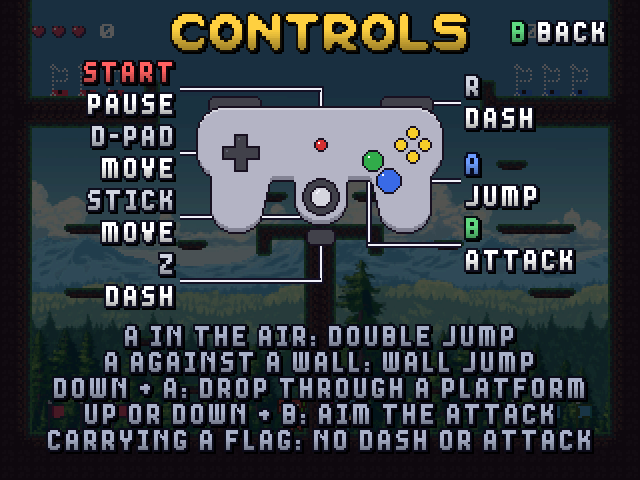
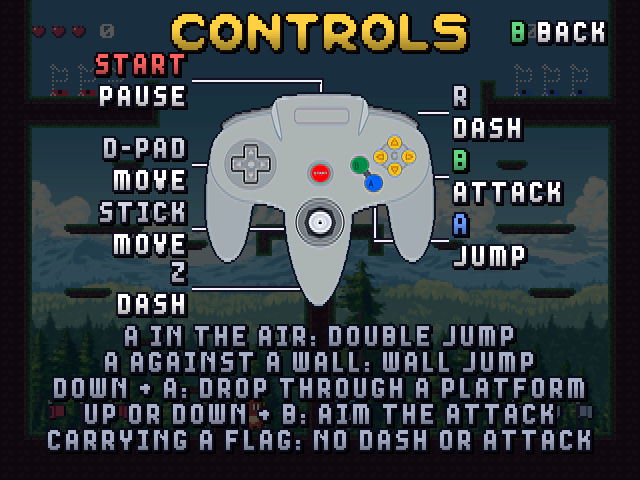
CONTROLS screen: VerzatileDev's controller art
tools/controls.py assembles the "UI TendoTendo" controller from the pack's
separate parts (placed as in its assembled thumbnail), scales it to 232x108
sim px (not stretched, like the backdrops), sharpens it, cuts alpha to 1 bit
and outlines it. The pack's files may not be redistributed, so
new-assets/controller-diagrams/ is ignored; without it, a drawn controller
with the parts at the same places. The callouts in scene.c follow the new
part positions; the build stops if the parts move without them.

Claude-Session: https://claude.ai/code/session_01LH4UJDShfuBhnsUo92N83q

diff --git a/tools/controls.py b/tools/controls.py
@@ -1,16 +1,130 @@
 """N64 controller picture for the pause menu's CONTROLS screen.
 
-pad() returns it in art px (build_sprites.py stretches it 2x wide like
-every sheet): the controller from the front, three grips, with the parts
-the game uses in their console colors. The renderer draws labels and
-leader lines to the parts at the PAD_* points below (art px from the
-picture's top-left; platform/common/scene.c draw_controls keeps a copy).
-"""
-from PIL import Image, ImageDraw
+pad() returns it at sim resolution, W x H (build_sprites.py does not stretch
+it): a sim px shows half as wide as tall, so the picture is twice as many px
+wide as a square-pixel one. The renderer draws labels and leader lines to
+the parts at PARTS (centers and radii in art px, i.e. half sim px across,
+from the picture's top-left; platform/common/scene.c callouts keeps a copy).
 
-W, H = 128, 84
-OUTLINE = (24, 22, 36, 255)
-BODY = (178, 180, 192, 255)
+With VerzatileDev's controller pack in new-assets/controller-diagrams (CC BY
+4.0, but its files may not be redistributed, so it is not in the
+repository), pad() assembles the "UI TendoTendo" controller from its separate
+parts (UI_TendoTendo_Seperate: body, shoulder buttons, D-pad, Start, A, B,
+C buttons, stick cap) where the pack's assembled UI_TendoTendoThumbnail1.png
+has them, scales it down, cuts alpha to 1 bit (RGBA16) and outlines the
+silhouette like the rest of the art. Without it, pad() draws a simpler
+controller with the parts at the same places.
+
+`python3 tools/controls.py out.png` writes the picture at 4:3 (2x across,
+4x down).
+"""
+import os
+
+from PIL import Image, ImageDraw, ImageFilter
+
+ROOT = os.path.dirname(os.path.dirname(os.path.abspath(__file__)))
+PACK = os.path.join(ROOT, "new-assets", "controller-diagrams", "UI_TendoTendo_Seperate")
+
+W, H = 232, 108                 # sim px
+OUTLINE = (20, 16, 36, 255)
+
+# name -> (x, y, r), art px.
+PARTS = {
+    "START": (58, 41, 5),
+    "DPAD": (23, 36, 10),
+    "STICK": (58, 65, 9),
+    "Z": (58, 88, 4),
+    "R": (104, 10, 3),
+    "A": (85, 46, 4),
+    "B": (78, 37, 4),
+}
+
+# ---- the pack's controller --------------------------------------------------
+
+SHARPEN = 80                    # unsharp mask after scaling down, percent
+# Source px of the body (g231, 2079x1995); every part is at the body's scale.
+BODY = "g231"
+SHOULDER_L, SHOULDER_R = ("g235", (144, 116)), ("g234", (1440, 108))
+# Part centers, from the thumbnail (scaled 2554/2079 there, body at 906,659).
+DPAD = ("g158", (409, 660))     # g158 nothing pressed; g98/g122/g132/g148 one arrow lit
+START = ("g232", (1043, 746))   # g233 darker
+B_BTN = ("g238", (1403, 669))   # g239 darker
+A_BTN = ("g237", (1529, 838))   # g236 darker
+C_BTNS = (1721, 584)            # no unlit set in the pack: g246's left half + g245's right
+STICK = ("g244", (1042, 1207))
+Z_BTN = (1042, 1640)            # trigger behind the middle grip
+R_BTN = (1880, 160)             # visible end of the R shoulder
+# PARTS in body source px: name -> (center, radius).
+CALLOUTS = {
+    "START": (START[1], 90),
+    "DPAD": (DPAD[1], 180),
+    "STICK": (STICK[1], 160),
+    "Z": (Z_BTN, 80),
+    "R": (R_BTN, 60),
+    "A": (A_BTN[1], 84),
+    "B": (B_BTN[1], 84),
+}
+
+
+def load(name):
+    return Image.open(os.path.join(PACK, f"UI_SuperNinNotTendoSVG_{name}.png")).convert("RGBA")
+
+
+def c_buttons():
+    lit_left, lit_right = load("g245"), load("g246")
+    half = lit_left.width // 2
+    out = lit_left.copy()
+    out.paste(lit_right.crop((0, 0, half, lit_right.height)), (0, 0))
+    return out
+
+
+def assemble():
+    """The whole controller in body source px."""
+    body = load(BODY)
+    im = Image.new("RGBA", body.size)
+    for name, at in (SHOULDER_L, SHOULDER_R):
+        im.alpha_composite(load(name), at)
+    im.alpha_composite(body)
+    for part, (cx, cy) in ((load(DPAD[0]), DPAD[1]), (load(START[0]), START[1]),
+                           (load(B_BTN[0]), B_BTN[1]), (load(A_BTN[0]), A_BTN[1]),
+                           (c_buttons(), C_BTNS), (load(STICK[0]), STICK[1])):
+        im.alpha_composite(part, (cx - part.width // 2, cy - part.height // 2))
+    return im
+
+
+def pack_pad():
+    """Scaled into W x H with a 1 px outline margin (2 across)."""
+    im = assemble()
+    box = im.getbbox()
+    sx, sy = (W - 4) / (box[2] - box[0]), (H - 2) / (box[3] - box[1])
+    parts = {name: (round((2 + (cx - box[0]) * sx) / 2), round(1 + (cy - box[1]) * sy),
+                    round(r * sy))
+             for name, ((cx, cy), r) in CALLOUTS.items()}
+    if parts != PARTS:
+        raise SystemExit(f"controls: parts moved, update PARTS and scene.c callouts: {parts}")
+    small = im.crop(box).resize((W - 4, H - 2), Image.LANCZOS)
+    alpha = small.getchannel("A")
+    small = small.convert("RGB").filter(ImageFilter.UnsharpMask(1, SHARPEN, 0))
+    small.putalpha(alpha)
+    out = Image.new("RGBA", (W, H))
+    out.paste(small, (2, 1))
+    px = out.load()
+    solid = [[px[x, y][3] >= 128 for x in range(W)] for y in range(H)]
+    for y in range(H):
+        for x in range(W):
+            if solid[y][x]:
+                px[x, y] = px[x, y][:3] + (255,)
+            elif any(0 <= x + dx < W and 0 <= y + dy < H and solid[y + dy][x + dx]
+                     for dx, dy in ((-2, 0), (-1, 0), (1, 0), (2, 0), (0, -1), (0, 1))):
+                px[x, y] = OUTLINE
+            else:
+                px[x, y] = (0, 0, 0, 0)
+    return out
+
+# ---- drawn controller (without the pack), art px, stretched 2x across -------
+
+AW = W // 2
+BODY_FILL = (178, 180, 192, 255)
 BODY_LIGHT = (208, 210, 220, 255)
 BODY_DARK = (132, 134, 150, 255)
 DARK = (64, 64, 78, 255)
@@ -19,17 +133,7 @@ RED = (214, 52, 52, 255)
 BLUE = (60, 104, 224, 255)
 GREEN = (52, 168, 76, 255)
 YELLOW = (240, 200, 40, 255)
-
-# Parts (centers), art px.
-DPAD = (24, 30)
-START = (64, 26)
-STICK = (64, 52)
-B_BTN = (90, 34)
-A_BTN = (98, 44)
-C_BTNS = (110, 26)      # center of the four C buttons
-L_BTN = (20, 5)
-R_BTN = (108, 5)
-Z_BTN = (64, 72)        # trigger behind the middle grip, drawn below the stick
+C_CENTER = (95, 32)
 
 
 def disc(d, c, r, fill, outline=OUTLINE):
@@ -39,31 +143,32 @@ def disc(d, c, r, fill, outline=OUTLINE):
 
 def body_mask():
     """Silhouette: a wide top with rounded ends and three grips below."""
-    im = Image.new("1", (W, H))
+    im = Image.new("1", (AW, H))
     d = ImageDraw.Draw(im)
-    d.rounded_rectangle((2, 7, W - 3, 44), radius=14, fill=1)
-    for cx in (22, 64, 106):
-        d.rounded_rectangle((cx - 13, 30, cx + 13, 70 if cx != 64 else 66), radius=12, fill=1)
-    d.polygon([(16, 40), (40, 40), (34, 64), (14, 64)], fill=1)          # left grip slants out
-    d.polygon([(88, 40), (112, 40), (114, 64), (94, 64)], fill=1)
+    d.rounded_rectangle((2, 8, AW - 3, 58), radius=18, fill=1)
+    d.rounded_rectangle((44, 40, 72, H - 3), radius=14, fill=1)          # middle grip
+    for x0, x1, top in ((4, 30, 50), (AW - 31, AW - 5, 50)):
+        d.rounded_rectangle((x0, top, x1, 92), radius=13, fill=1)
+    d.polygon([(10, 50), (40, 50), (30, 80), (6, 80)], fill=1)            # left grip slants out
+    d.polygon([(AW - 41, 50), (AW - 11, 50), (AW - 7, 80), (AW - 31, 80)], fill=1)
     return im
 
 
-def pad():
-    im = Image.new("RGBA", (W, H))
+def drawn_pad():
+    im = Image.new("RGBA", (AW, H))
     d = ImageDraw.Draw(im)
-    # Shoulder buttons behind the top edge.
-    d.rounded_rectangle((8, 2, 34, 10), radius=3, fill=DARK, outline=OUTLINE)
-    d.rounded_rectangle((94, 2, 120, 10), radius=3, fill=DARK, outline=OUTLINE)
-    # Body: outline ring, fill, a light top edge and a darker bottom.
+    rx, ry, _ = PARTS["R"]
+    d.rounded_rectangle((AW - 1 - rx - 12, ry - 6, AW - 1 - rx + 18, ry + 3), radius=3,
+                        fill=DARK, outline=OUTLINE)                       # L
+    d.rounded_rectangle((rx - 18, ry - 6, rx + 12, ry + 3), radius=3, fill=DARK, outline=OUTLINE)
     mask = body_mask()
     m = mask.load()
     px = im.load()
     for y in range(H):
-        for x in range(W):
+        for x in range(AW):
             if not m[x, y]:
                 continue
-            edge = any(not (0 <= x + dx < W and 0 <= y + dy < H and m[x + dx, y + dy])
+            edge = any(not (0 <= x + dx < AW and 0 <= y + dy < H and m[x + dx, y + dy])
                        for dx, dy in ((1, 0), (-1, 0), (0, 1), (0, -1)))
             if edge:
                 px[x, y] = OUTLINE
@@ -72,37 +177,37 @@ def pad():
             elif y + 3 < H and not m[x, y + 3]:
                 px[x, y] = BODY_DARK
             else:
-                px[x, y] = BODY
-    # Z trigger (really under the middle grip), seen through it.
-    d.rounded_rectangle((Z_BTN[0] - 7, Z_BTN[1] - 4, Z_BTN[0] + 7, Z_BTN[1] + 4), radius=3,
-                        fill=DARK, outline=OUTLINE)
-    # D-pad.
-    x, y = DPAD
-    d.rectangle((x - 3, y - 9, x + 3, y + 9), fill=DARK, outline=OUTLINE)
-    d.rectangle((x - 9, y - 3, x + 9, y + 3), fill=DARK, outline=OUTLINE)
-    d.rectangle((x - 2, y - 8, x + 2, y + 8), fill=DARK)
-    d.rectangle((x - 8, y - 2, x + 8, y + 2), fill=DARK)
-    d.point([(x - 1, y - 7), (x - 7, y - 1)], fill=DARK_LIGHT)
-    # Start.
-    disc(d, START, 3, RED)
-    # Analog stick: well, then the cap.
-    disc(d, STICK, 9, DARK)
-    disc(d, STICK, 5, BODY_LIGHT)
-    d.point([(STICK[0] - 2, STICK[1] - 2), (STICK[0] - 1, STICK[1] - 3)], fill=(240, 240, 248, 255))
-    # B, A, then the C buttons.
-    disc(d, B_BTN, 5, GREEN)
-    disc(d, A_BTN, 6, BLUE)
-    cx, cy = C_BTNS
-    for dx, dy in ((0, -6), (-6, 0), (6, 0), (0, 6)):
+                px[x, y] = BODY_FILL
+    zx, zy, _ = PARTS["Z"]          # Z trigger (really under the middle grip), seen through it
+    d.rounded_rectangle((zx - 7, zy - 4, zx + 7, zy + 4), radius=3, fill=DARK, outline=OUTLINE)
+    x, y, _ = PARTS["DPAD"]
+    d.rectangle((x - 3, y - 10, x + 3, y + 10), fill=DARK, outline=OUTLINE)
+    d.rectangle((x - 10, y - 3, x + 10, y + 3), fill=DARK, outline=OUTLINE)
+    d.rectangle((x - 2, y - 9, x + 2, y + 9), fill=DARK)
+    d.rectangle((x - 9, y - 2, x + 9, y + 2), fill=DARK)
+    d.point([(x - 1, y - 8), (x - 8, y - 1)], fill=DARK_LIGHT)
+    disc(d, PARTS["START"][:2], 3, RED)
+    sx, sy, _ = PARTS["STICK"]
+    disc(d, (sx, sy), 9, DARK)
+    disc(d, (sx, sy), 5, BODY_LIGHT)
+    d.point([(sx - 2, sy - 2), (sx - 1, sy - 3)], fill=(240, 240, 248, 255))
+    disc(d, PARTS["B"][:2], 4, GREEN)
+    disc(d, PARTS["A"][:2], 5, BLUE)
+    cx, cy = C_CENTER
+    for dx, dy in ((0, -7), (-7, 0), (7, 0), (0, 7)):
         disc(d, (cx + dx, cy + dy), 3, YELLOW)
-    # A little shine on the colored buttons.
-    for (bx, by), r in ((B_BTN, 5), (A_BTN, 6), (START, 3)):
+    for name, r in (("B", 4), ("A", 5), ("START", 3)):
+        bx, by, _ = PARTS[name]
         d.point([(bx - r // 2, by - r // 2)], fill=(255, 255, 255, 200))
-    return im
+    return im.resize((W, H), Image.NEAREST)
+
+
+def pad():
+    return pack_pad() if os.path.isdir(PACK) else drawn_pad()
 
 
 if __name__ == "__main__":
     import sys
     out = sys.argv[1] if len(sys.argv) > 1 else "pad.png"
-    p = pad()
-    p.resize((p.width * 4, p.height * 4), Image.NEAREST).save(out)
+    p = drawn_pad() if "--drawn" in sys.argv else pad()
+    p.resize((p.width * 2, p.height * 4), Image.NEAREST).save(out)

diff --git a/platform/common/scene.c b/platform/common/scene.c
@@ -583,8 +583,10 @@ static void draw_pause(const Game *g, const DrawApi *d)
 
 /* CONTROLS screen: the N64 controller (tools/controls.py) with leader lines
  * from its parts to two-line labels (part, action), and tips below. */
-#define PAD_X 192               /* picture's top-left, sim px (256x84) */
+#define PAD_X 204               /* picture's top-left, sim px */
 #define PAD_Y 46
+#define PAD_PIC_W 232           /* picture size, sim px (tools/controls.py W, H) */
+#define PAD_PIC_H 108
 #define LABEL_GAP 16            /* picture edge to labels */
 #define TINT_PART 0xd0d4e0
 #define TINT_A 0x6c9cff
@@ -598,13 +600,13 @@ typedef struct {
 } Callout;
 
 static const Callout callouts[] = {
-    {64, 26, 3, 0, 44, 0xff6060, "START", "PAUSE"},
-    {24, 30, 9, 0, 76, TINT_PART, "D-PAD", "MOVE"},
-    {64, 52, 9, 0, 108, TINT_PART, "STICK", "MOVE"},
-    {64, 72, 4, 0, 140, TINT_PART, "Z", "DASH"},
-    {108, 5, 4, 1, 51, TINT_PART, "R", "DASH"},
-    {98, 44, 6, 1, 90, TINT_A, "A", "JUMP"},
-    {88, 34, 5, 1, 122, TINT_B, "B", "ATTACK"},
+    {58, 41, 5, 0, 40, 0xff6060, "START", "PAUSE"},
+    {23, 36, 10, 0, 82, TINT_PART, "D-PAD", "MOVE"},
+    {58, 65, 9, 0, 114, TINT_PART, "STICK", "MOVE"},
+    {58, 88, 4, 0, 144, TINT_PART, "Z", "DASH"},
+    {104, 10, 3, 1, 56, TINT_PART, "R", "DASH"},
+    {78, 37, 4, 1, 88, TINT_B, "B", "ATTACK"},
+    {85, 46, 4, 1, 120, TINT_A, "A", "JUMP"},
 };
 
 /* A light line with a dark edge, horizontal or vertical, between two points. */
@@ -640,7 +642,7 @@ static void draw_controls(const Game *g, const DrawApi *d)
     for (unsigned i = 0; i < sizeof callouts / sizeof callouts[0]; i++) {
         const Callout *c = &callouts[i];
         int px = PAD_X + c->ax * 2, py = PAD_Y + c->ay, y = c->y;
-        int lx = c->right ? PAD_X + 256 + LABEL_GAP - 4 : PAD_X - LABEL_GAP + 4;
+        int lx = c->right ? PAD_X + PAD_PIC_W + LABEL_GAP - 4 : PAD_X - LABEL_GAP + 4;
         if (py == y) {          /* straight across, from the part's edge */
             leader(d, c->right ? px + c->r * 2 : px - c->r * 2, y, lx, y);
         } else {                /* down or up to the label's y, then across */
@@ -648,12 +650,12 @@ static void draw_controls(const Game *g, const DrawApi *d)
             leader(d, px, y, lx, y);
         }
     }
-    d->blit(d->ctx, SPR_CONTROLS, 0, 0, 256, 84, PAD_X, PAD_Y, 0);
+    d->blit(d->ctx, SPR_CONTROLS, 0, 0, PAD_PIC_W, PAD_PIC_H, PAD_X, PAD_Y, 0);
     /* Labels at the leader ends: the part above the line, the action below. */
     for (unsigned i = 0; i < sizeof callouts / sizeof callouts[0]; i++) {
         const Callout *c = &callouts[i];
         int wp = font_width(c->part, FONT_SMALL), wa = font_width(c->action, FONT_SMALL);
-        int x = c->right ? PAD_X + 256 + LABEL_GAP : PAD_X - LABEL_GAP;
+        int x = c->right ? PAD_X + PAD_PIC_W + LABEL_GAP : PAD_X - LABEL_GAP;
         font_text(g, d, c->right ? x : x - wp, c->y - th - 1, c->part, FONT_SMALL, c->tint, 0);
         font_text(g, d, c->right ? x : x - wa, c->y + 2, c->action, FONT_SMALL, TINT_WHITE, 0);
     }

diff --git a/tools/build_sprites.py b/tools/build_sprites.py
@@ -39,7 +39,7 @@ Layouts below are in art px (before the stretch):
   slash     attack slash (tools/effects.py): 3 side frames of 16x24, 3 up
             frames of 24x16
   controls  N64 controller picture for the CONTROLS screen (tools/controls.py),
-            128x84
+            already at sim resolution (232x108, not stretched)
   platform  Rocky Roads cloud platforms halved (nearest), for one-way moving
             platforms 2, 3 and 4 cells wide: one 34x10 slot each, the cloud
             centered, its top on the slot's top row
@@ -218,7 +218,6 @@ def sheets():
     yield "hud", hearts.resize((hearts.width // 2, hearts.height // 2), Image.NEAREST)
     yield "font", font.sheet()
     yield "slash", effects.slash()
-    yield "controls", controls.pad()
     yield "platform", clouds()
 
 
@@ -244,7 +243,7 @@ def main():
     out = sys.argv[1]
     os.makedirs(os.path.join(out, "n64"), exist_ok=True)
     os.makedirs(os.path.join(out, "host"), exist_ok=True)
-    native = scenery.sheets()           # already at sim resolution
+    native = scenery.sheets() + [("controls", controls.pad())]     # already at sim resolution
     native += [("tiles_" + n, terrain.sheet(n)) for n in terrain.TILESETS]
     for name, im in [(n, im.resize((im.width * 2, im.height), Image.NEAREST))
                      for n, im in sheets()] + native:
